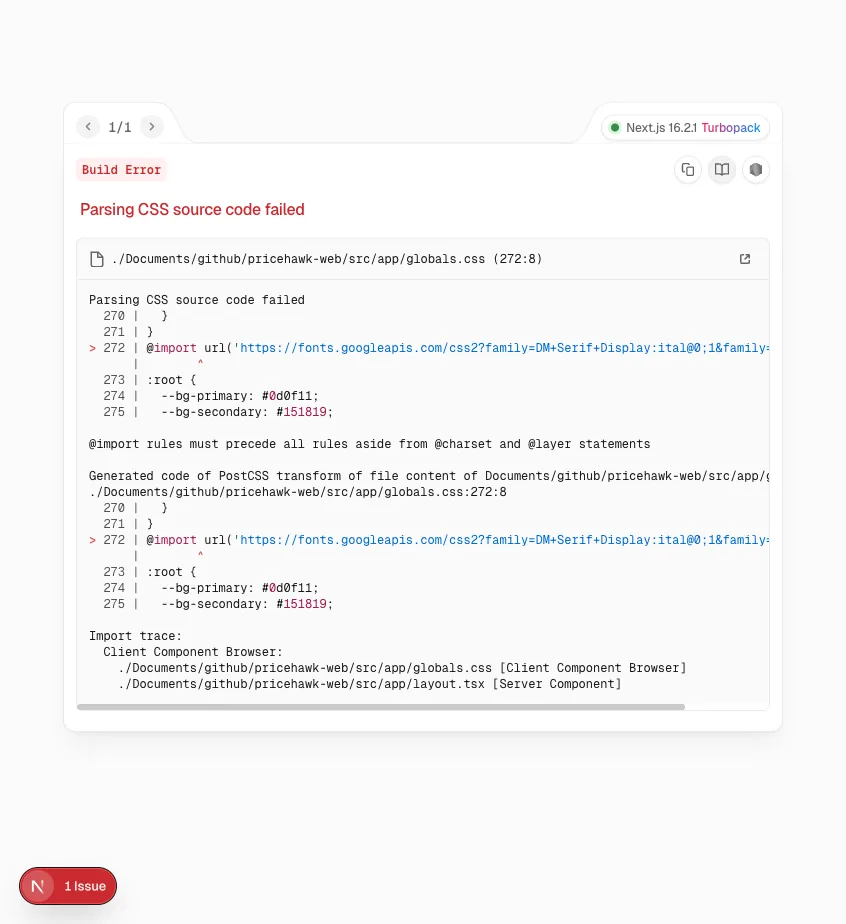
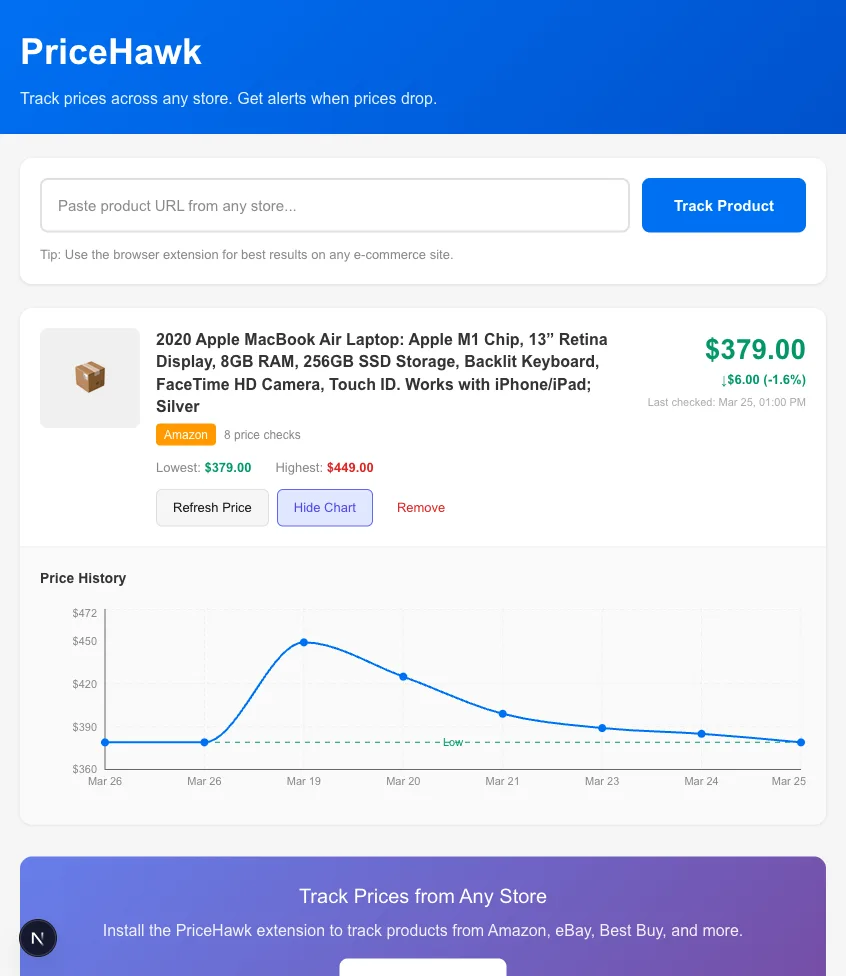
fix: PriceHawk's screenshot was a captured Next.js build error (Parsing CSS source code failed) - replace with the real price-tracking dashboard from the repo, and shorten proof-chip labels so all three fit above the fold

diff --git a/index.html b/index.html
@@ -116,9 +116,9 @@
       <li class="word"><b>Rust</b><span>multi-agent IDE</span></li>
     </ul>
     <ul class="stage-proof">
-      <li><a href="Abdurrahman-Resume.pdf" download><b>Résumé</b><span>One page · PDF</span></a></li>
-      <li><a href="https://ecommerce-ten-flame-39.vercel.app" target="_blank" rel="noopener noreferrer"><b>Live store</b><span>Taking orders now</span></a></li>
-      <li><a href="https://github.com/TOX9C" target="_blank" rel="noopener noreferrer"><b>GitHub</b><span>Source for every project</span></a></li>
+      <li><a href="Abdurrahman-Resume.pdf" download><b>Résumé</b><span>One page</span></a></li>
+      <li><a href="https://ecommerce-ten-flame-39.vercel.app" target="_blank" rel="noopener noreferrer"><b>Live store</b><span>Orders open</span></a></li>
+      <li><a href="https://github.com/TOX9C" target="_blank" rel="noopener noreferrer"><b>GitHub</b><span>All 7 sources</span></a></li>
     </ul>
     </div>
 

diff --git a/assets/js/data.js b/assets/js/data.js
@@ -118,7 +118,7 @@ export const PROJECTS = [
     ],
     stack: ['price history', 'charts', 'alerts'],
     images: [
-      { src: 'assets/projects/pricehawk-landing.webp', alt: 'PriceHawk landing page' }
+      { src: 'assets/projects/pricehawk-landing.webp', alt: 'PriceHawk tracking a product with price history' }
     ],
     links: [{ label: 'Source', href: 'https://github.com/TOX9C/price-tracker', primary: true }],
     hue: '#54E1FF',
